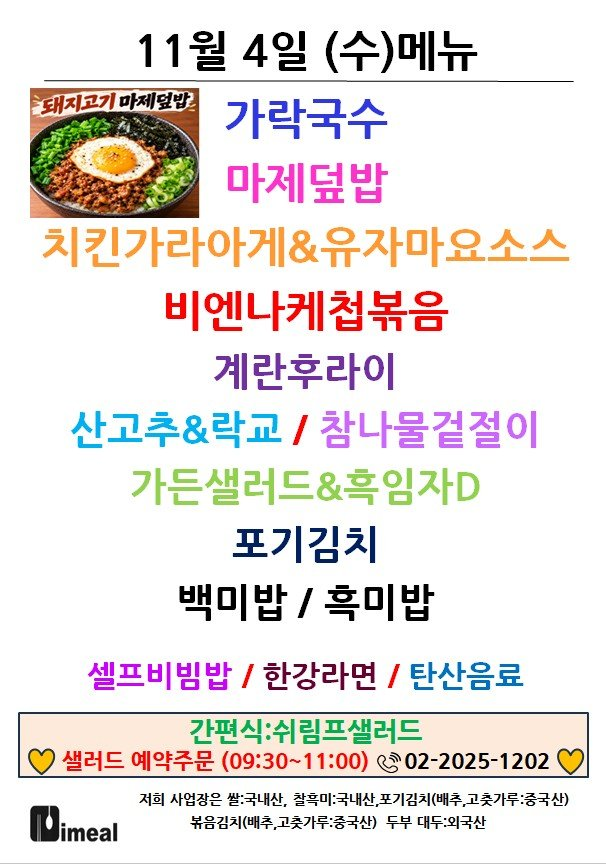
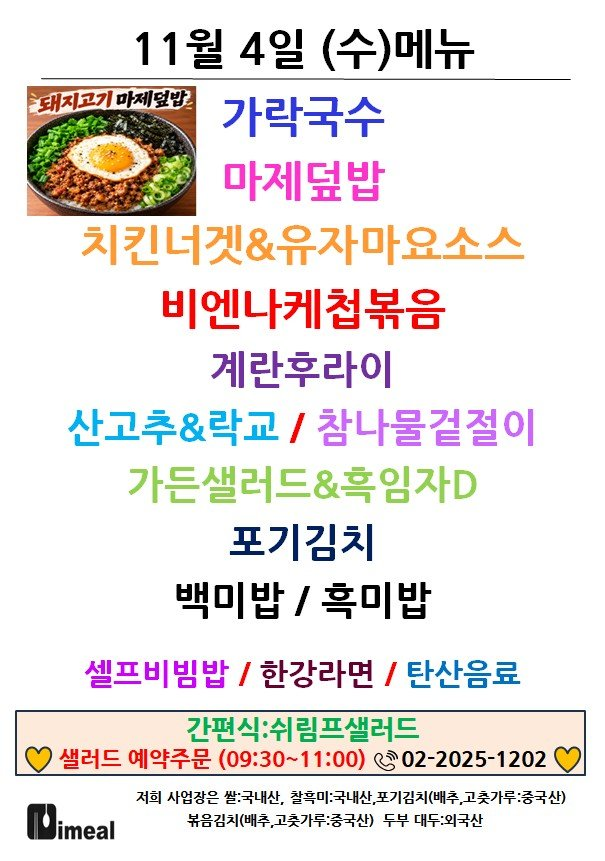
Update menu board assets

Changed region(s): [[0.0298, 0.0302, 0.9521, 0.7247], [0.0, 0.7549, 1.0, 1.0]]

diff --git a/menu-today/index.html b/menu-today/index.html
@@ -209,7 +209,7 @@
 
     <section class="meta-bar">
       <div class="meta-card"><div class="meta-label">기준 날짜</div><div class="meta-value">2026년 11월 4일 수요일</div></div>
-      <div class="meta-card"><div class="meta-label">최종 가져온 시간</div><div class="meta-value">2026-11-04 09:48:16</div></div>
+      <div class="meta-card"><div class="meta-label">최종 가져온 시간</div><div class="meta-value">2026-11-04 10:04:03</div></div>
       <div class="meta-card"><div class="meta-label">확인 완료</div><div class="meta-value">9개 식당</div></div>
       <div class="meta-card"><div class="meta-label">준비중</div><div class="meta-value">3개 채널</div></div>
     </section>
@@ -225,7 +225,7 @@
             <div class="sub">현대테라타워 가산DK</div>
           </div>
         </div>
-        <div class="menu-inline-image"><img src="./images/imeal.png" alt="아이밀 식단 이미지"></div><ul><li>치킨가라아게 &amp; 유자마요소스</li><li>비엔나케첩볶음</li><li>계란후라이</li><li>산고추 &amp; 락교 / 참나물겉절이</li><li>가든샐러드 &amp; 흑임자D</li><li>포기김치</li><li>백미밥 / 흑미밥</li><li>지교기 마제</li><li>가락국</li><li>마제덮밥</li><li>비엔나케</li><li>처보으</li></ul>
+        <div class="menu-inline-image"><img src="./images/imeal.png" alt="아이밀 식단 이미지"></div><ul><li>cs 마제덮밥</li><li>비엔나케첩볶음</li><li>계란후라이</li><li>산고추 &amp; 락교 / 참나물겉절이</li><li>가든샐러드 &amp; 흑임자D</li><li>포기김치</li><li>백미밥 / 흑미밥</li><li>대지고기 마제&#x27;</li><li>가락국</li><li>마제덮밥</li><li>타사음료</li></ul>
       </article>
 
       <article class="restaurant-card">
@@ -235,7 +235,7 @@
             <div class="sub">가산 어반워크</div>
           </div>
         </div>
-        <div class="menu-inline-image"><img src="./images/dasibom.png" alt="다시 봄 식단 이미지"></div><ul><li>수제고구마야채튀김</li><li>고주지무짐</li><li>시 시 AH</li><li>소고기해장국</li><li>So. 심라면</li><li>캠핑닭소금구이</li></ul>
+        <div class="menu-inline-image"><img src="./images/dasibom.png" alt="다시 봄 식단 이미지"></div><ul><li>가고</li><li>수제치킨 &amp; 소이갈릭</li><li>파채떡갈비구이</li><li>신림동순대볶음</li><li>단무지채무침</li><li>숙성포기김치</li><li>싱싱샐러드</li><li>셀그라면 고</li></ul>
       </article>
 
       <article class="restaurant-card">
@@ -265,7 +265,7 @@
             <div class="sub">가산비즈니스센터</div>
           </div>
         </div>
-        <div class="menu-inline-image"><img src="./images/raonfood.png" alt="구내식당라온푸드 식단 이미지"></div><ul><li>돈육맘볶음 &amp; :꽂빵</li><li>생선까스 / 타르타르S</li><li>잠지마파두부</li><li>물파래무무침</li><li>삼주,알배추쌈 / 쌈잠</li><li>샐러드 &amp; 드레싱</li><li>더그타</li><li>다대)</li><li>소고)양념불고 )</li><li>물파래</li></ul>
+        <div class="menu-inline-image"><img src="./images/raonfood.png" alt="구내식당라온푸드 식단 이미지"></div><ul><li>돈육맘볶음 &amp; :꽂빵</li><li>생선까스 / 타르타르</li><li>잠지마파두부</li><li>물파래무무침</li><li>삼주,알배추쌈 / 쌈잠</li><li>샐러드 &amp; 드레싱</li><li>더그타</li><li>다대)</li><li>소고)양념불고 )</li><li>물파래</li></ul>
       </article>
 
       <article class="restaurant-card">

diff --git a/guro-menu/index.html b/guro-menu/index.html
@@ -32,7 +32,7 @@
   </header>
   <section class="meta">
     <div><small>기준 날짜</small><strong>2026년 11월 4일 수요일</strong></div>
-    <div><small>최종 갱신</small><strong>2026-11-04 09:48:29</strong></div>
+    <div><small>최종 갱신</small><strong>2026-11-04 10:04:16</strong></div>
     <div><small>등록 식당</small><strong>5개</strong></div>
   </section>
   <div class="notice">공개 카카오 채널의 메뉴 이미지를 자동 수집하고 OCR로 정리합니다. 텍스트에 오타가 있을 수 있으니 식단 이미지를 함께 확인해 주세요.</div>
